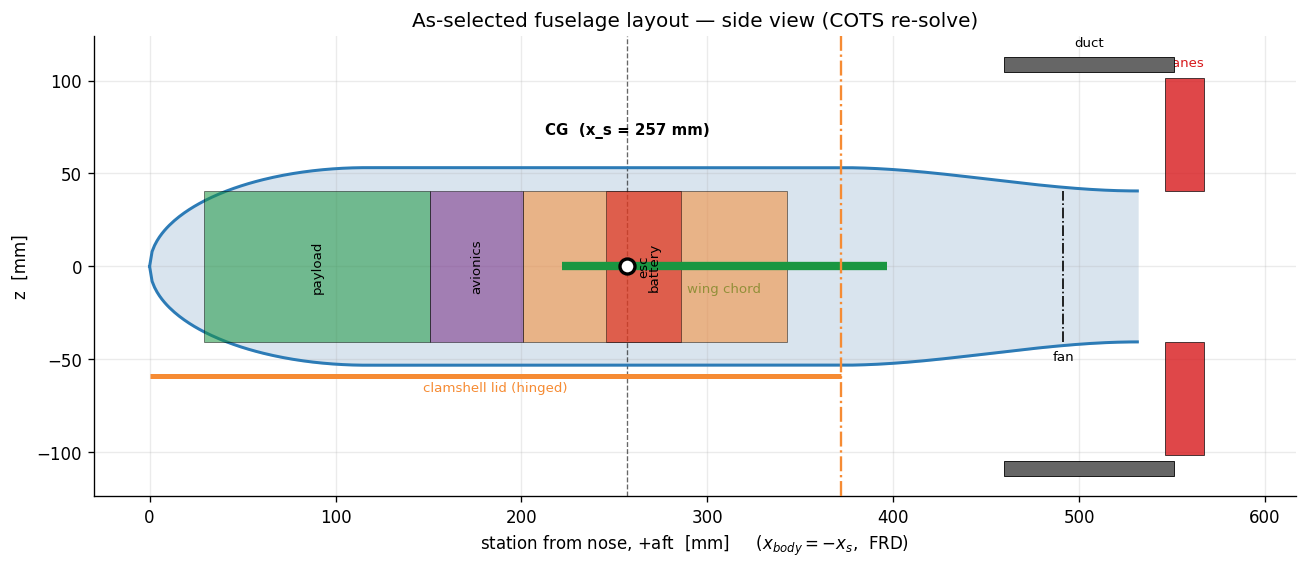
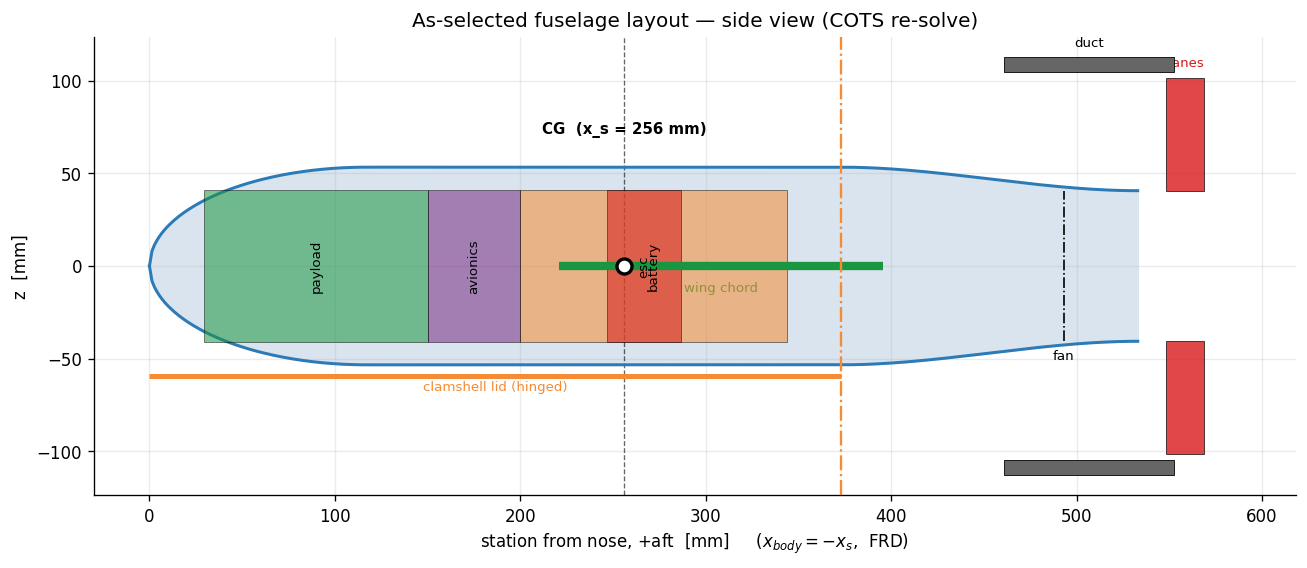
Add the Molicel P50B 6S1P Li-ion pack to the battery catalog
First Li-ion 21700-cell candidate (5 Ah / 108 Wh / 450 g, WREKD-listed
built pack; bare P50B cells are TR-stocked, so the in-country route is
a local spot-welded build). It wins the auto-freeze over the Gens Ace
LiPo, flipping the battery budget line to ~105 g UNDER the sized pack:
the as-selected all-up drops to 2.264 kg (-38 g vs the closure MTOW)
and the hull re-solves to ~o107x533 mm. Regression pins, the
regenerated NB11-NB14 handoffs, and the CLAUDE.md standing findings
move in the same commit per the pin discipline.

Watch item: Li-ion nominal is 3.6 V/cell vs the configured 3.7 V/cell
(config/electrical.yaml) -- revisit if this pack is frozen at
procurement.

diff --git a/tests/test_design_outputs.py b/tests/test_design_outputs.py
@@ -223,7 +223,7 @@ class TestCotsSelection:
         assert sel["propeller"]["id"] == "ma_3blade_8x6"   # ADR-0003 amendment
         assert sel["propeller"]["frozen"] is True          # pinned, not auto
         assert sel["servo"]["id"] == "kst_x08_v6"
-        assert sel["battery"]["id"] == "gens_ace_6s_4000_30c"
+        assert sel["battery"]["id"] == "molicel_p50b_6s1p_5000"
 
     def test_requirements_derived_from_design_point(self, components):
         req = components["requirements"]
@@ -251,10 +251,11 @@ class TestCotsSelection:
         assert b["avionics_bay"]["within"] is False
         assert b["motor_fan"]["within"] is False
         assert b["motor_fan"]["actual_g"] < 2 * b["motor_fan"]["alloc_g"]
-        # COTS capacity quantisation: the pack lands a little over the
-        # sized battery mass, but bounded (< 15%).
-        assert b["battery"]["within"] is False
-        assert b["battery"]["actual_g"] < 1.15 * b["battery"]["alloc_g"]
+        # The Li-ion 21700 pack (Molicel P50B 6S1P) beats the sized LiPo
+        # mass outright -- its pack-level specific energy wins back the
+        # capacity-quantisation penalty and then some (~-105 g).
+        assert b["battery"]["within"] is True
+        assert b["battery"]["actual_g"] > 0.75 * b["battery"]["alloc_g"]
         assert components["all_within_allocations"] is False
 
     def test_heavy_fan_rejected_only_on_diameter(self, components):
@@ -379,12 +380,15 @@ class TestAsSelectedFuselage:
 
     def test_as_selected_mass_rollup(self, fuselage_cots):
         # the all-up delta IS the sum of the freeze's standing mass
-        # findings; pin its state (positive, bounded) like the thermal pin
+        # findings; pin its state like the thermal pin. Since the Li-ion
+        # Molicel pack entered the catalog its ~-105 g vs the sized LiPo
+        # outweighs the avionics/motor overruns: the delta is now
+        # slightly NEGATIVE (as-selected all-up under the closure MTOW).
         s = fuselage_cots["as_selected"]
         assert s["m_items_total_kg"] == pytest.approx(
             s["m_closure_mtow_kg"] + s["m_delta_kg"], rel=1e-3)
-        assert 0.0 < s["m_delta_kg"] < 0.2
-        assert s["m_delta_kg"] == pytest.approx(0.1246, rel=5e-2)
+        assert -0.1 < s["m_delta_kg"] < 0.0
+        assert s["m_delta_kg"] == pytest.approx(-0.0384, rel=5e-2)
 
     def test_structure_over_budget_is_pinned_finding(self, fuselage_cots):
         # KNOWN finding (ADR-0012): the hull that holds the real hardware

diff --git a/CLAUDE.md b/CLAUDE.md
@@ -83,9 +83,12 @@ wiring module's operating point) — only the margins are configured; the
 lightest feasible candidate wins, deterministically. Mass-allocation fit is *reported, never
 filtered on*: at the current design point the ESC and servos fit; the
 avionics bay (~-42 g) and the motor (~-99 g of the motor_fan line, all
-motor) are over, and the COTS battery overshoots the sized pack by ~58 g
-(capacity quantisation, expected) — standing findings against the weight
-fractions, same status as the thermal cold-plate. The propeller is
+motor) are over — standing findings against the weight fractions, same
+status as the thermal cold-plate. The battery line flipped sign when the
+Li-ion 21700 class entered the catalog: the Molicel P50B 6S1P (450 g,
+108 Wh) undercuts the sized LiPo pack by ~105 g (its pack-level specific
+energy beats the config/battery.yaml LiPo density; note its 3.6 V/cell
+nominal vs the configured 3.7 — see batteries.yaml). The propeller is
 **pinned** via `selection.frozen` to the 3-blade 8×6 of the ADR-0003
 amendment (the configured solidity/FoM model that geometry); the lighter
 TR-stocked 2-blade Gemfan stays visible as a feasible alternative, but
@@ -106,9 +109,10 @@ physical-fit report. They write parallel `*_cots.yaml` handoffs (same
 schemas, via `cots_integration.py`) and NEVER touch the conceptual
 outputs — no back-edge: CAD/CFD and `Allrun.case` stay on the conceptual
 geometry, and the deltas are pinned standing findings (as-selected all-up
-2.427 kg = closure +125 g; hull grows to ⌀106×531 mm; structure model
-~33 g over its budget), folded into `config/` only as a deliberate
-next-iteration change after procurement. `design_summary` (NB15, last) is
+2.264 kg = closure −38 g since the Li-ion Molicel battery won the freeze;
+hull grows to ⌀107×533 mm; structure model ~33 g over its budget), folded
+into `config/` only as a deliberate next-iteration change after
+procurement. `design_summary` (NB15, last) is
 a pure reader: design point, margins table, frozen hardware, and every
 standing finding collected programmatically from the handoffs.
 